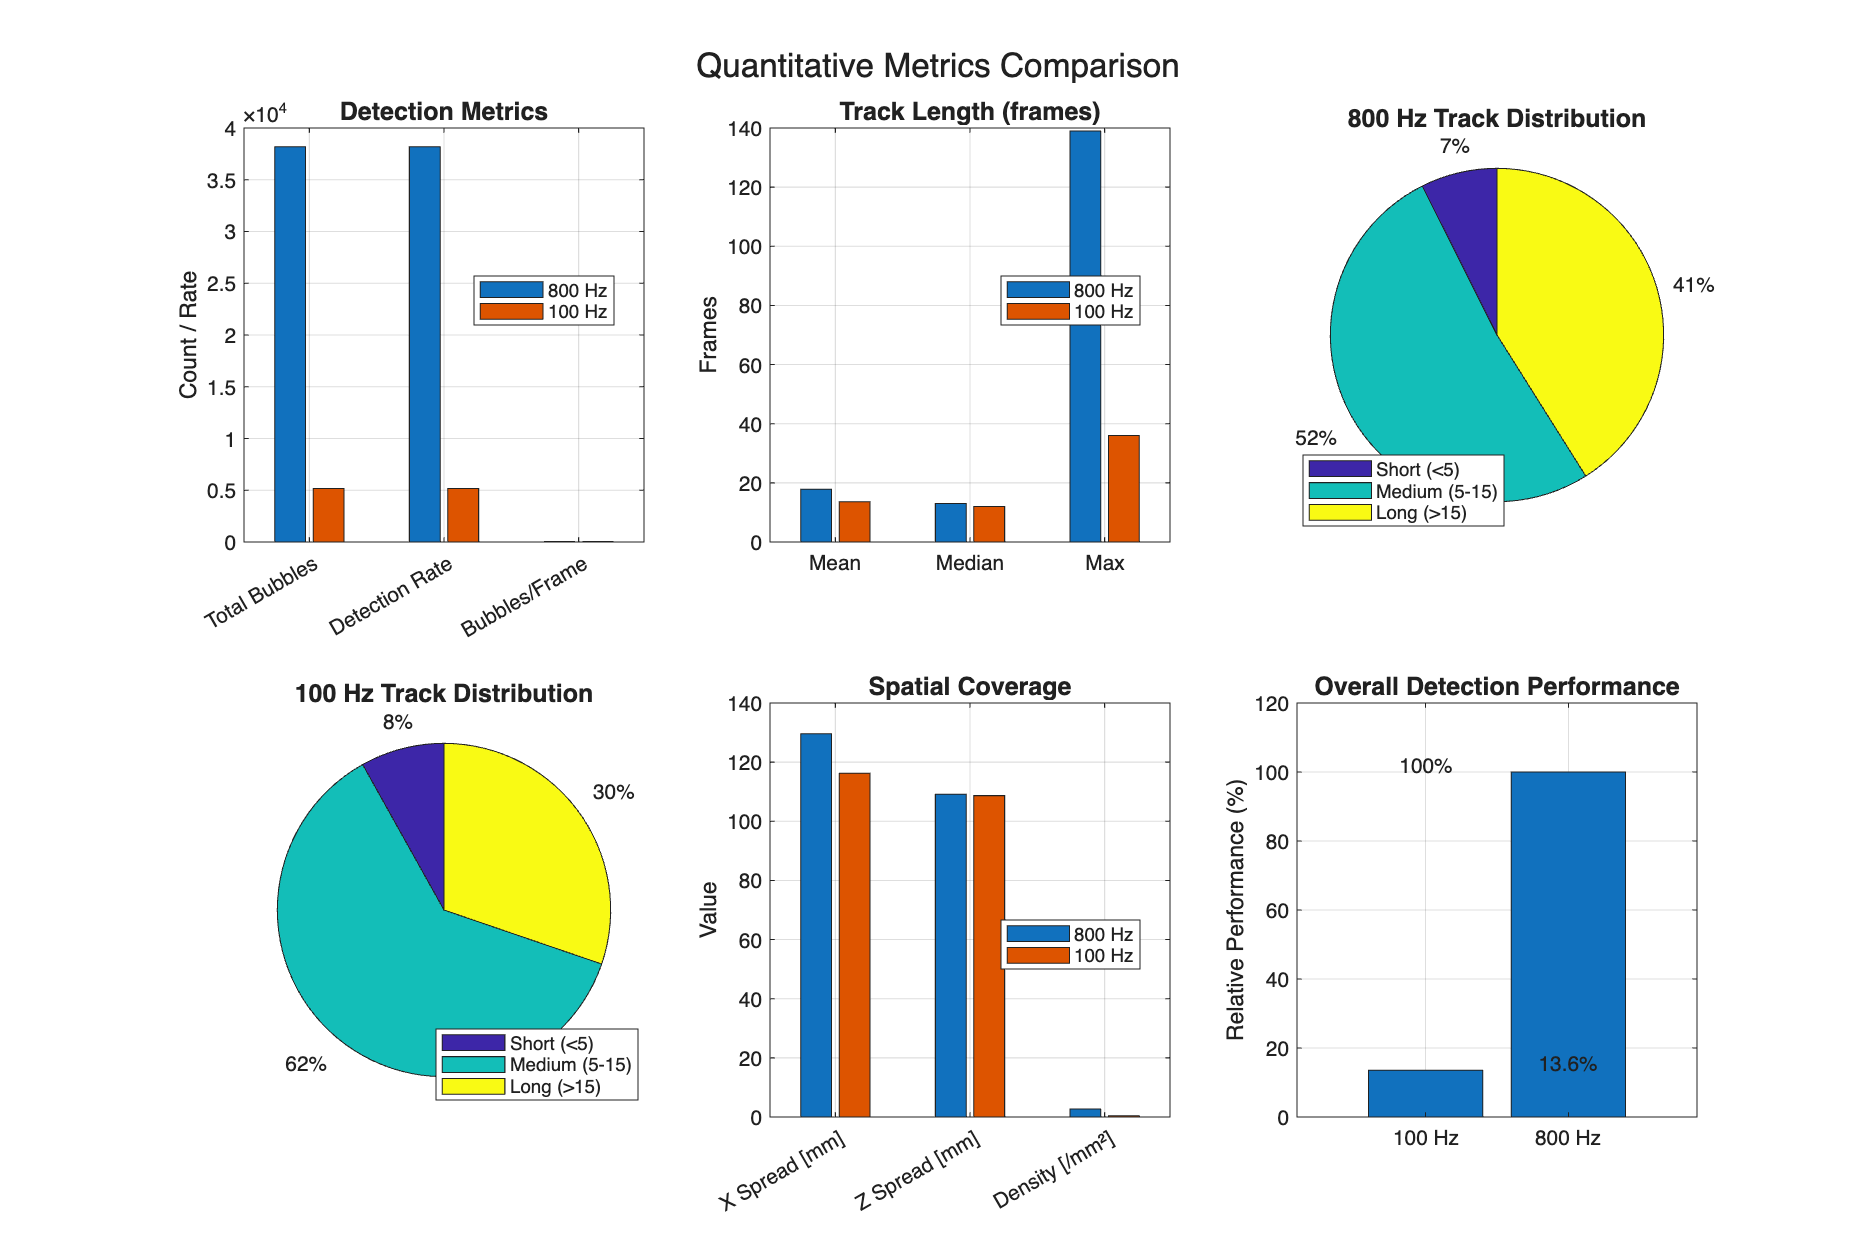
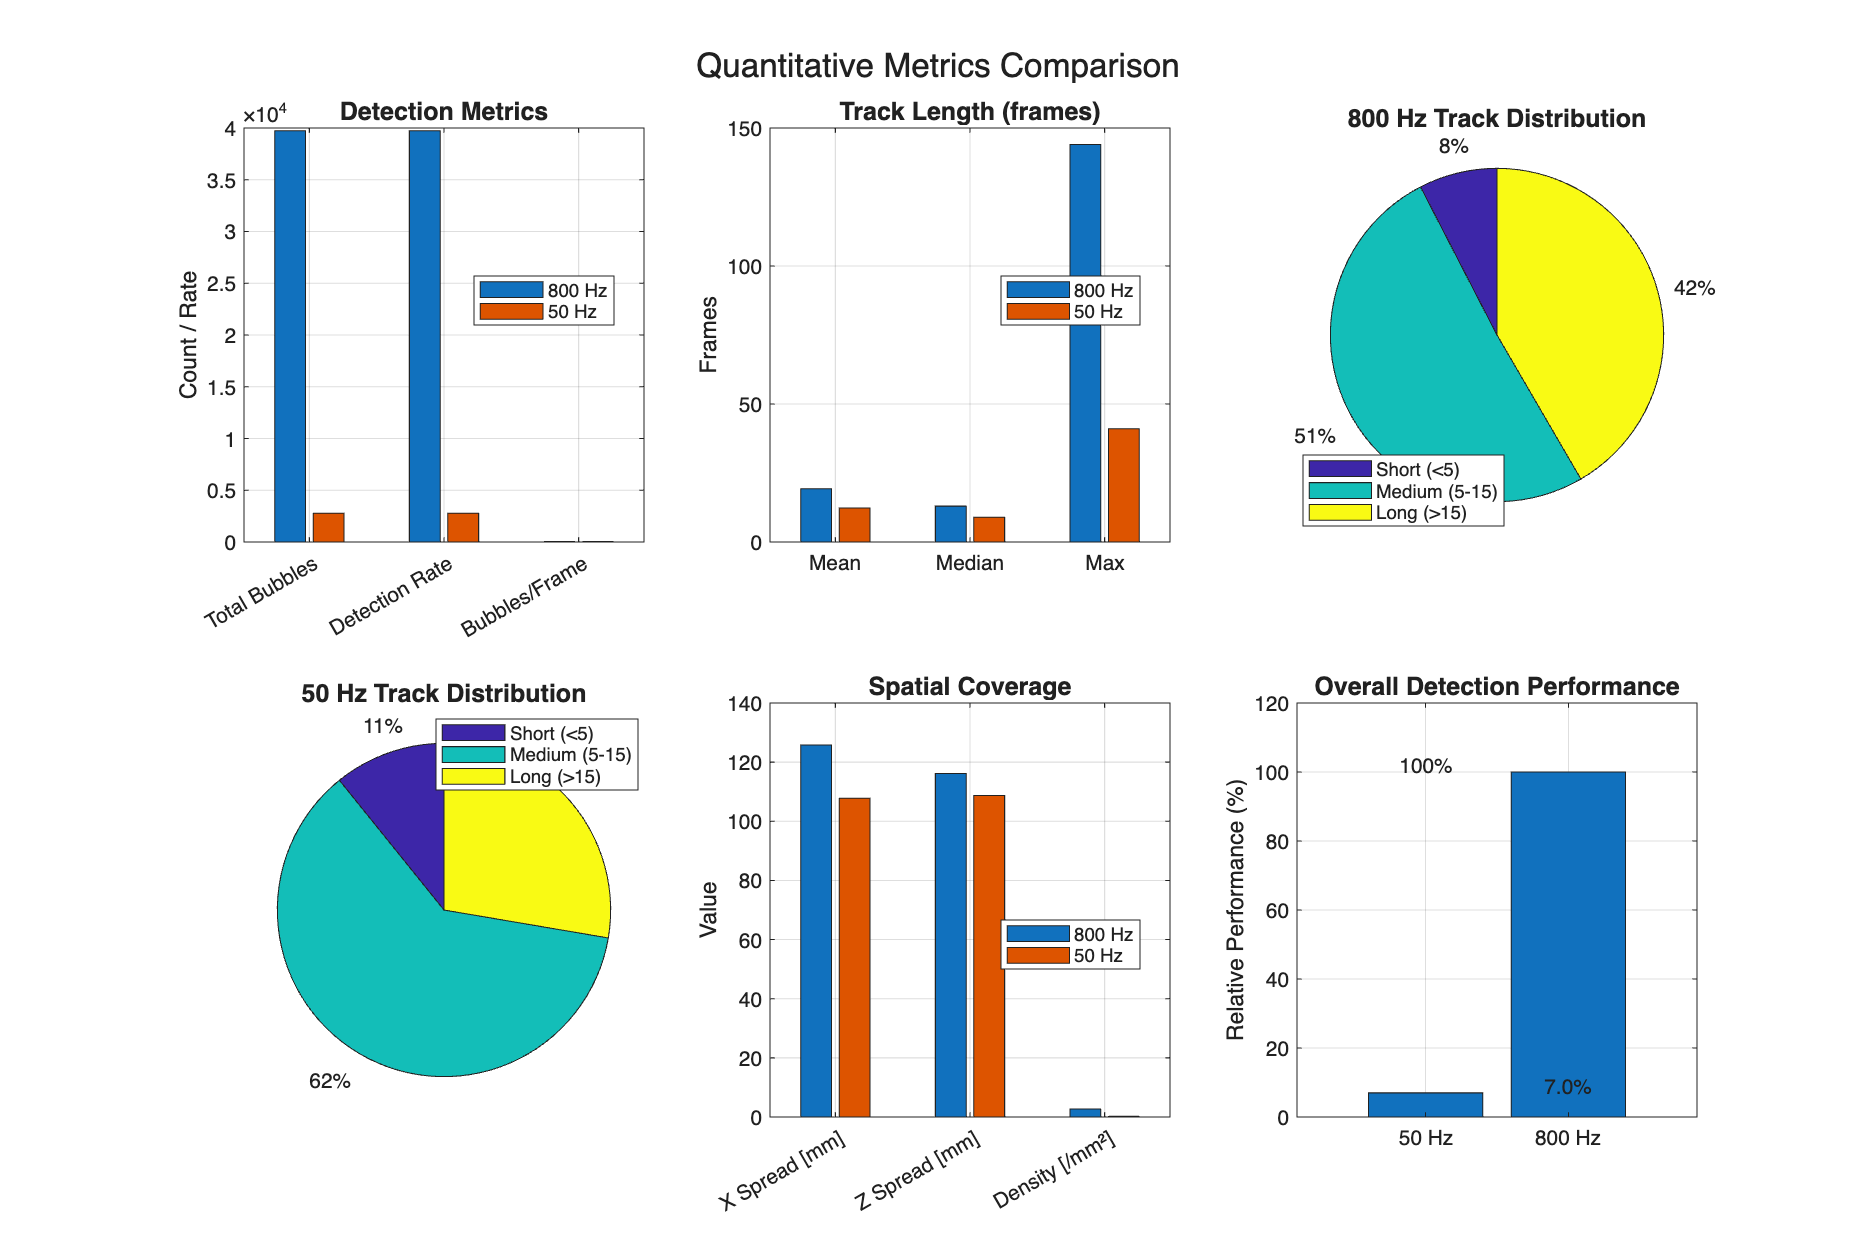
generalized downsampling factor

diff --git a/2_localisation_and_display/functions/visualize_comparison.m b/2_localisation_and_display/functions/visualize_comparison.m
@@ -3,7 +3,7 @@ function fig_handles = visualize_comparison(density_800Hz, density_low, ...
     IQ_800Hz, IQ_low, ...
     IQF_800Hz, IQF_low, ...
     Bubbles_800Hz, Bubbles_low, ...
-    ZX_boundaries, BFStruct)
+    ZX_boundaries, BFStruct, density_800Hz_downsampled)
 %VISUALIZE_COMPARISON Create comprehensive visualizations comparing frame rates
 %
 %   Creates multiple figures to visualize the impact of frame rate on:
@@ -24,46 +24,88 @@ function fig_handles = visualize_comparison(density_800Hz, density_low, ...
     fprintf('Visualization: 800 Hz (%d frames) vs %d Hz (%d frames), downsample factor = %d\n', ...
         size(IQ_800Hz, 3), low_framerate, size(IQ_low, 3), downsample_factor);
 
-    %% Figure 1: Side-by-side density map comparison
-    fig_handles(1) = figure('Name', 'Density Map Comparison', 'Position', [100 100 1400 600]);
+    %% Figure 1: Side-by-side density map comparison (4 panels)
+    fig_handles(1) = figure('Name', 'Density Map Comparison', 'Position', [100 100 1800 800]);
 
-    % 800 Hz density map
-    subplot(1, 3, 1);
+    % 800 Hz density map (all data)
+    subplot(2, 2, 1);
     imagesc(ZX_boundaries(3:4), -ZX_boundaries(2:-1:1), density_800Hz.^0.45);
     colormap(gca, hot(256));
     axis tight; axis equal;
     caxis([0 0.95]);
-    title('800 Hz Density Map', 'FontSize', 14);
+    title('800 Hz - All Data', 'FontSize', 14, 'FontWeight', 'bold');
     xlabel('X [mm]'); ylabel('Depth [mm]');
     colorbar;
 
+    % 800 Hz downsampled density map (same # of observations as low framerate)
+    subplot(2, 2, 2);
+    if nargin >= 10 && ~isempty(density_800Hz_downsampled)
+        imagesc(ZX_boundaries(3:4), -ZX_boundaries(2:-1:1), density_800Hz_downsampled.^0.45);
+        colormap(gca, hot(256));
+        axis tight; axis equal;
+        caxis([0 0.95]);
+        title(sprintf('800 Hz - Downsampled (1/%d observations)', downsample_factor), 'FontSize', 14, 'FontWeight', 'bold');
+        xlabel('X [mm]'); ylabel('Depth [mm]');
+        colorbar;
+        text(0.5, 0.98, 'Shows effect of fewer observations', ...
+            'Units', 'normalized', 'HorizontalAlignment', 'center', ...
+            'VerticalAlignment', 'top', 'Color', 'yellow', 'FontSize', 10, 'FontWeight', 'bold');
+    else
+        text(0.5, 0.5, 'Downsampled density map not provided', ...
+            'Units', 'normalized', 'HorizontalAlignment', 'center');
+    end
+
     % Low framerate density map
-    subplot(1, 3, 2);
+    subplot(2, 2, 3);
     imagesc(ZX_boundaries(3:4), -ZX_boundaries(2:-1:1), density_low.^0.45);
     colormap(gca, hot(256));
     axis tight; axis equal;
     caxis([0 0.95]);
-    title(sprintf('%d Hz Density Map', low_framerate), 'FontSize', 14);
+    title(sprintf('%d Hz - Actual', low_framerate), 'FontSize', 14, 'FontWeight', 'bold');
     xlabel('X [mm]'); ylabel('Depth [mm]');
     colorbar;
+    text(0.5, 0.98, 'Shows combined effect of sampling + detection', ...
+        'Units', 'normalized', 'HorizontalAlignment', 'center', ...
+        'VerticalAlignment', 'top', 'Color', 'yellow', 'FontSize', 10, 'FontWeight', 'bold');
 
-    % Difference map
-    subplot(1, 3, 3);
-    diff_map = density_800Hz - density_low;
-    imagesc(ZX_boundaries(3:4), -ZX_boundaries(2:-1:1), diff_map);
-    colormap(gca, coolwarm(256));
-    axis tight; axis equal;
-    max_diff = max(abs(diff_map(:)));
-    if max_diff > 0
-        caxis([-max_diff, max_diff]);
+    % Difference map: 800Hz downsampled vs low framerate
+    subplot(2, 2, 4);
+    if nargin >= 10 && ~isempty(density_800Hz_downsampled)
+        diff_map = density_800Hz_downsampled - density_low;
+        imagesc(ZX_boundaries(3:4), -ZX_boundaries(2:-1:1), diff_map);
+        colormap(gca, coolwarm(256));
+        axis tight; axis equal;
+        max_diff = max(abs(diff_map(:)));
+        if max_diff > 0
+            caxis([-max_diff, max_diff]);
+        else
+            caxis([-1, 1]);  % Default range if no difference
+        end
+        title(sprintf('Difference (800Hz DS - %dHz)', low_framerate), 'FontSize', 14, 'FontWeight', 'bold');
+        xlabel('X [mm]'); ylabel('Depth [mm]');
+        colorbar;
+        text(0.5, 0.98, 'Isolates temporal sampling effect', ...
+            'Units', 'normalized', 'HorizontalAlignment', 'center', ...
+            'VerticalAlignment', 'top', 'Color', 'yellow', 'FontSize', 10, 'FontWeight', 'bold');
     else
-        caxis([-1, 1]);  % Default range if no difference
+        diff_map = density_800Hz - density_low;
+        imagesc(ZX_boundaries(3:4), -ZX_boundaries(2:-1:1), diff_map);
+        colormap(gca, coolwarm(256));
+        axis tight; axis equal;
+        max_diff = max(abs(diff_map(:)));
+        if max_diff > 0
+            caxis([-max_diff, max_diff]);
+        else
+            caxis([-1, 1]);
+        end
+        title(sprintf('Difference (800Hz - %dHz)', low_framerate), 'FontSize', 14);
+        xlabel('X [mm]'); ylabel('Depth [mm]');
+        colorbar;
     end
-    title(sprintf('Difference (800Hz - %dHz)', low_framerate), 'FontSize', 14);
-    xlabel('X [mm]'); ylabel('Depth [mm]');
-    colorbar;
 
-    sgtitle('Density Map Comparison: Impact of Frame Rate', 'FontSize', 16);
+    sgtitle({'Density Map Comparison: Isolating Effects of Frame Rate', ...
+             'Top row: 800 Hz (all data vs downsampled) | Bottom row: Low framerate actual vs difference'}, ...
+             'FontSize', 16, 'FontWeight', 'bold');
 
     %% Figure 2: Raw vs Filtered Comparison (2x2 grid)
     fig_handles(2) = figure('Name', 'Raw vs Filtered Comparison', 'Position', [100 100 1400 800]);

diff --git a/2_localisation_and_display/compare_frame_rates.m b/2_localisation_and_display/compare_frame_rates.m
@@ -19,12 +19,12 @@ clear; clc; close all;
 %% ========== USER PARAMETERS ==========
 % Target frame rate for downsampled comparison (Hz)
 % Must be < 800 Hz. Recommended values: 20, 50, 100, 200
-target_framerate = 100; % Hz
+target_framerate = 50; % Hz
 
 % High-pass filter cutoff frequency (Hz)
-% Will be automatically limited to 95% of Nyquist frequency for lower framerate
-% For fair comparison, should be <= (target_framerate / 2) * 0.95
-cutoff_freq = 40; % Hz (recommended: ~80% of target Nyquist)
+% Automatically computed as 80% of Nyquist frequency for fair comparison
+% This ensures the same frequency content is filtered for both datasets
+cutoff_freq = 0.8 * (target_framerate / 2); % Hz (80% of Nyquist)
 %% ======================================
 
 % Add script directory and functions to path
@@ -294,7 +294,7 @@ fig_handles = visualize_comparison(density_map_800Hz, density_map_low, ...
     IQ_800Hz, IQ_low, ...
     IQF_800Hz, IQF_low, ...
     Bubbles_800Hz_array, Bubbles_low_array, ...
-    ZX_boundaries, BFStruct);
+    ZX_boundaries, BFStruct, density_map_800Hz_downsampled);
 
 % Save figures as PNG
 fprintf('\n=== Saving Figures ===\n');
